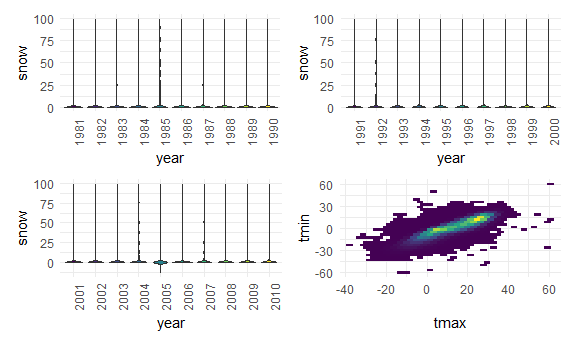
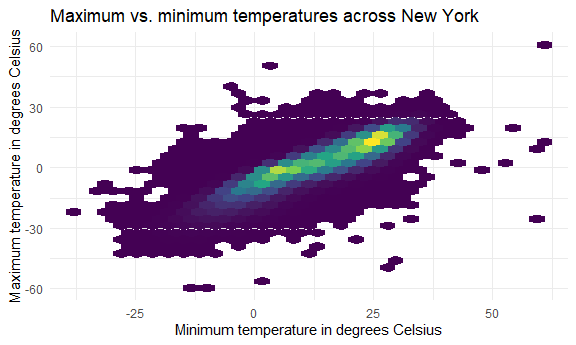
Ok I think it's looking better please be nice to me TAs

diff --git a/p8105_hw3_mgg2153.md b/p8105_hw3_mgg2153.md
@@ -145,7 +145,7 @@ accel_df = read_csv("./data/accel_data.csv") %>%
 
     ## See spec(...) for full column specifications.
 
-The new, tidier dataset, accel\_df has **50400**observations and **6**
+The new, tidier dataset, accel\_df has **50400** observations and **6**
 variables. Those variables are **weekday, week, day\_id, day, minute,
 acceleration\_force**
 
@@ -249,6 +249,12 @@ ny_noaa %>%
   )
 ```
 
+The resulting dataset has **2595176** and **9** The variables included
+are **id, year, month, day, prcp, snow, snwd, tmax, tmin** What was
+interesting is that the variables for precipitation, max, and min
+temperatures were measured in “tenths,” meaning that 44 was actually
+4.4\! Hence why the division by 10.
+
 Let’s see what’s going on with snowfall:
 
 ``` r
@@ -339,39 +345,52 @@ ny_weather_df %>%
   drop_na(tmax, tmin) %>%
   ggplot(aes(x = tmax, y = tmin))+
   geom_hex()+
+  scale_x_continuous(breaks = c(-25, 0, 25, 50))+
+  labs(
+    x = "Minimum temperature in degrees Celsius",
+    y = "Maximum temperature in degrees Celsius",
+    title = "Maximum vs. minimum temperatures across New York"
+  )+
   theme(legend.position = "none")
 
 snow_dist_1 = 
 ny_weather_df %>%
-  filter(year %in% c(1981:1990)) %>%
+  filter(year %in% c(1981:1995)) %>%
   drop_na(snow) %>%
-  filter(snow <= 100) %>%
+  filter(0 < snow) %>%
+  filter(snow < 100) %>%
   group_by(id, year, month) %>%
   ggplot(aes(x = year, y = snow, fill = year))+
   geom_violin()+
+  labs(
+    y = "snow (mm)",
+    title = "Snowfall distribution 1981-95"
+  )+
   theme(axis.text.x = element_text(angle = 90), legend.position = "none")
 
 snow_dist_2 =
  ny_weather_df %>%
-  filter(year %in% c(1991:2000)) %>%
+  filter(year %in% c(1996:2010)) %>%
   drop_na(snow) %>%
-  filter(snow <= 100) %>%
+  filter(snow < 100) %>%
+  filter(snow > 0) %>%
   group_by(id, year, month) %>%
   ggplot(aes(x = year, y = snow, fill = year))+
   geom_violin()+
+  labs(
+    y = "snow (mm)",
+    title = "Snowfall distribution 1996-2010"
+  )+
   theme(axis.text.x = element_text(angle = 90), legend.position = "none") 
 
-snow_dist_3 =
-  ny_weather_df %>%
-  filter(year %in% c(2001:2010)) %>%
-  drop_na(snow) %>%
-  filter(snow <= 100) %>%
-  group_by(id, year, month) %>%
-  ggplot(aes(x = year, y = snow, fill = year))+
-  geom_violin()+
-  theme(axis.text.x = element_text(angle = 90), legend.position = "none")
 
-(snow_dist_1 + snow_dist_2)/(snow_dist_3 + tmax_v_tmin)
+(tmax_v_tmin) 
 ```
 
 <img src="p8105_hw3_mgg2153_files/figure-gfm/unnamed-chunk-9-1.png" width="90%" />
+
+``` r
+(snow_dist_1) + (snow_dist_2)
+```
+
+<img src="p8105_hw3_mgg2153_files/figure-gfm/unnamed-chunk-9-2.png" width="90%" />
